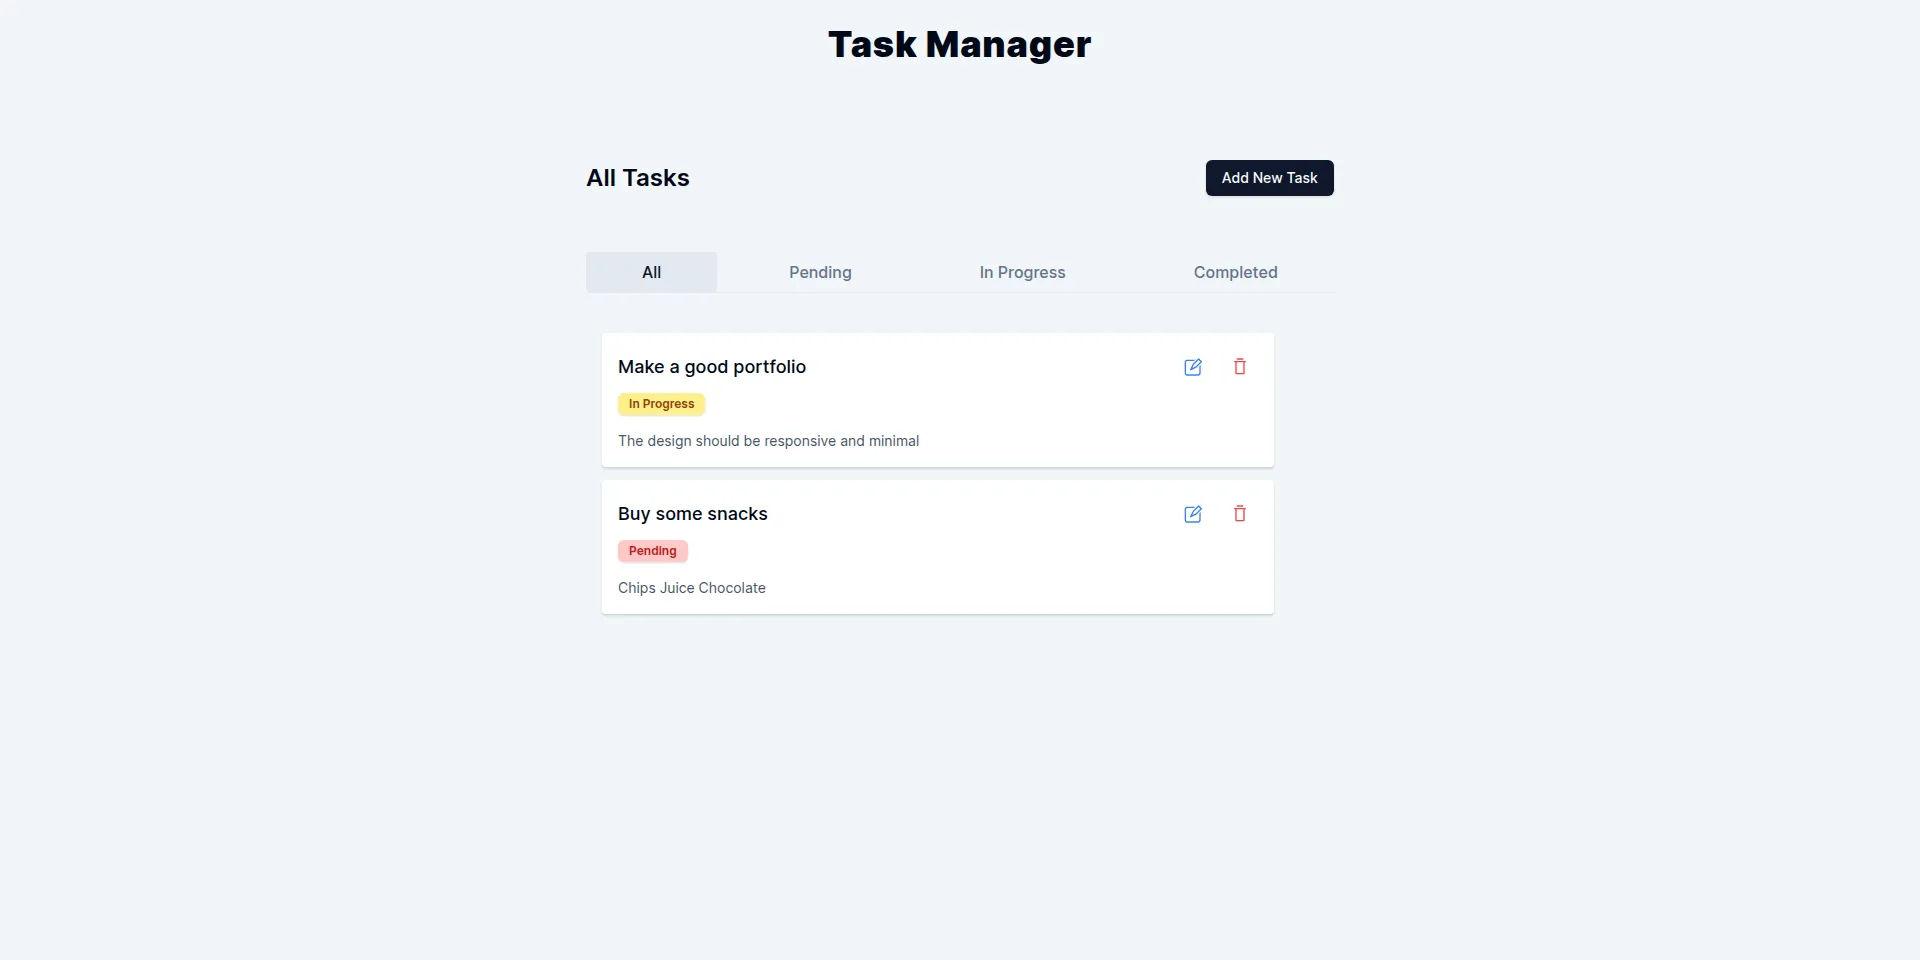
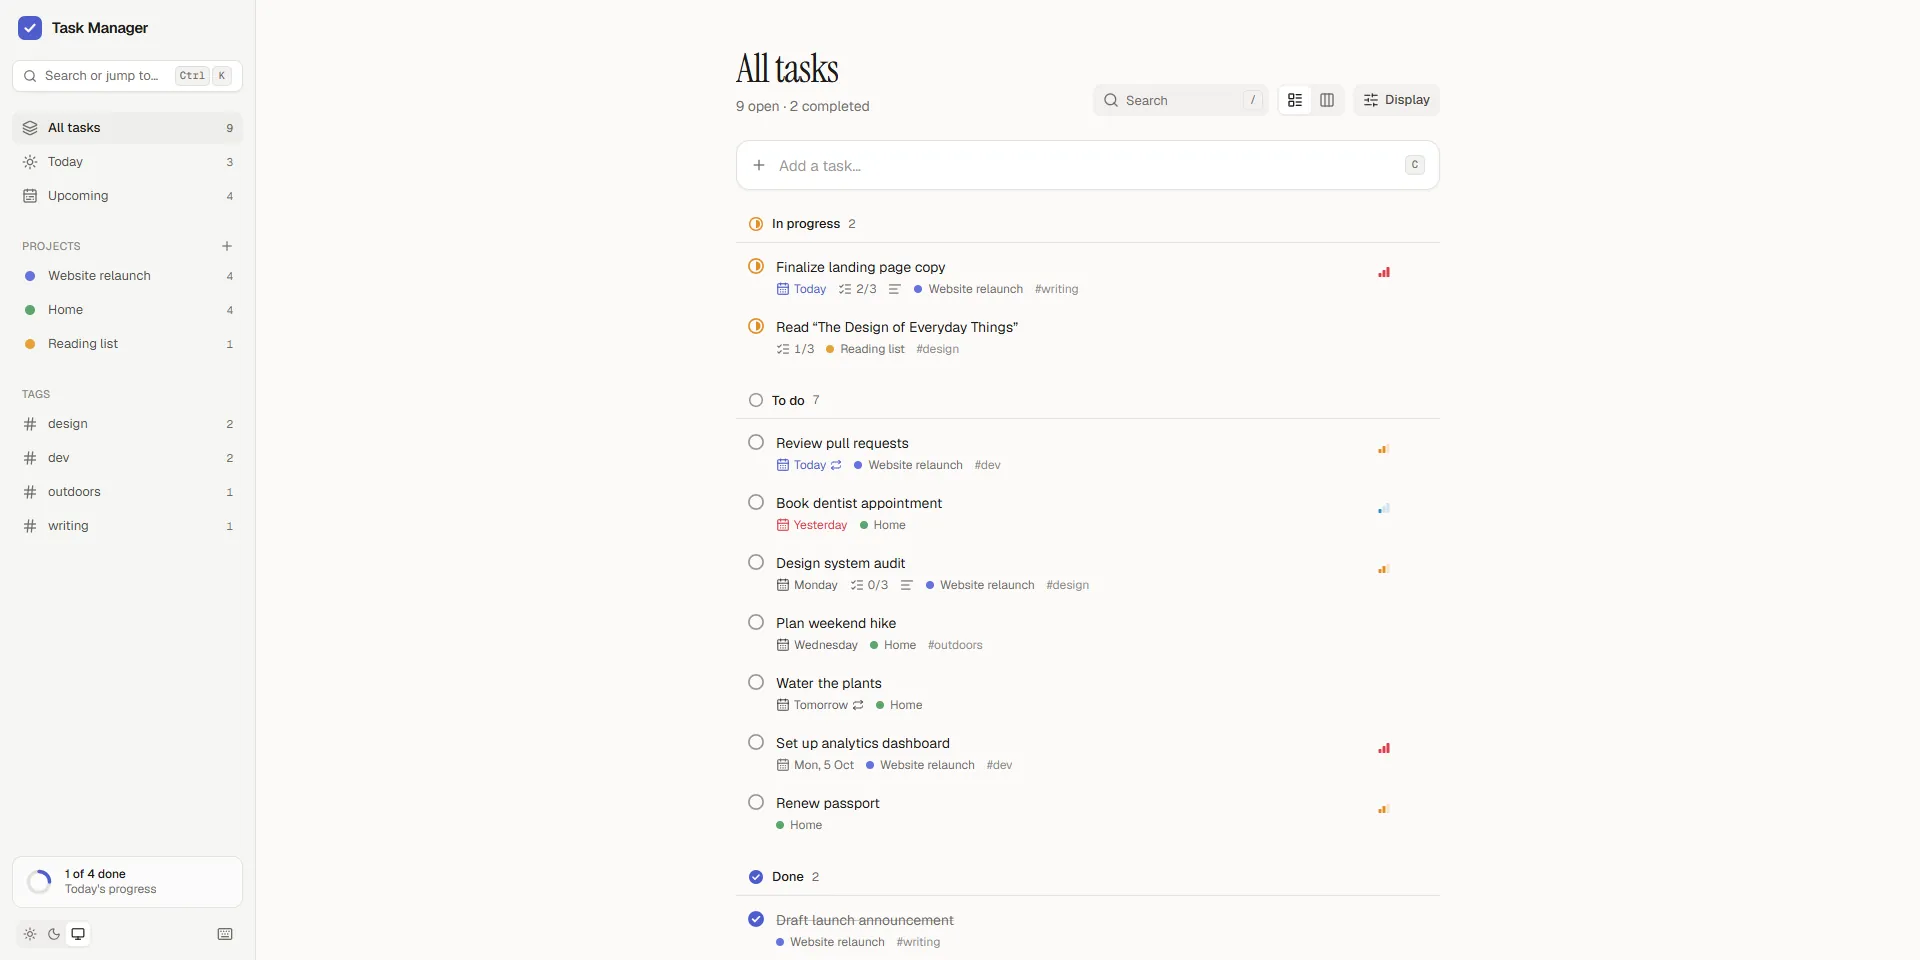
feat: show the reworked task manager and block graph, expand Sepia's card
- Task Management App: new screenshot of the redesigned app, taken
  from the live site with its example tasks. The previous one was
  captured a couple of hours before the redesign went live.
- Random Block Graph Generator: new screenshot of the current build,
  a three-level tree with a resized root block and dashed
  centre-to-centre lines, at the same 2:1 size as the other cards
  (it was 1920x868).
- Sepia: the card now covers the v2 rebuild's engineering as well:
  optimistic likes, photos resized in the browser before upload, and
  an Express 5 API that validates requests with zod, rate-limits
  sign-ins and has integration tests.

diff --git a/src/constants/index.ts b/src/constants/index.ts
@@ -192,7 +192,7 @@ export const PROJECTS: Project[] = [
   {
     title: "Sepia",
     description:
-      "A MERN stack photo-sharing app with email and Google sign-in. Users create, edit, like and delete posts with a photo, caption and tags in an infinite-scrolling feed, with light and dark themes on a fully responsive layout.",
+      "A MERN stack photo-sharing app with email and Google sign-in. Users create, edit, like and delete posts with a photo, caption and tags in an infinite-scrolling feed, with light and dark themes on a fully responsive layout. Likes update optimistically, photos are resized in the browser before upload, and the Express 5 API validates every request with zod, rate-limits sign-ins and is covered by integration tests.",
     technologies: ["MongoDB", "Express.js", "React", "Redux Toolkit", "Node.js", "Tailwind CSS"],
     image: sepia,
     live: "https://sepia.onrender.com/",
